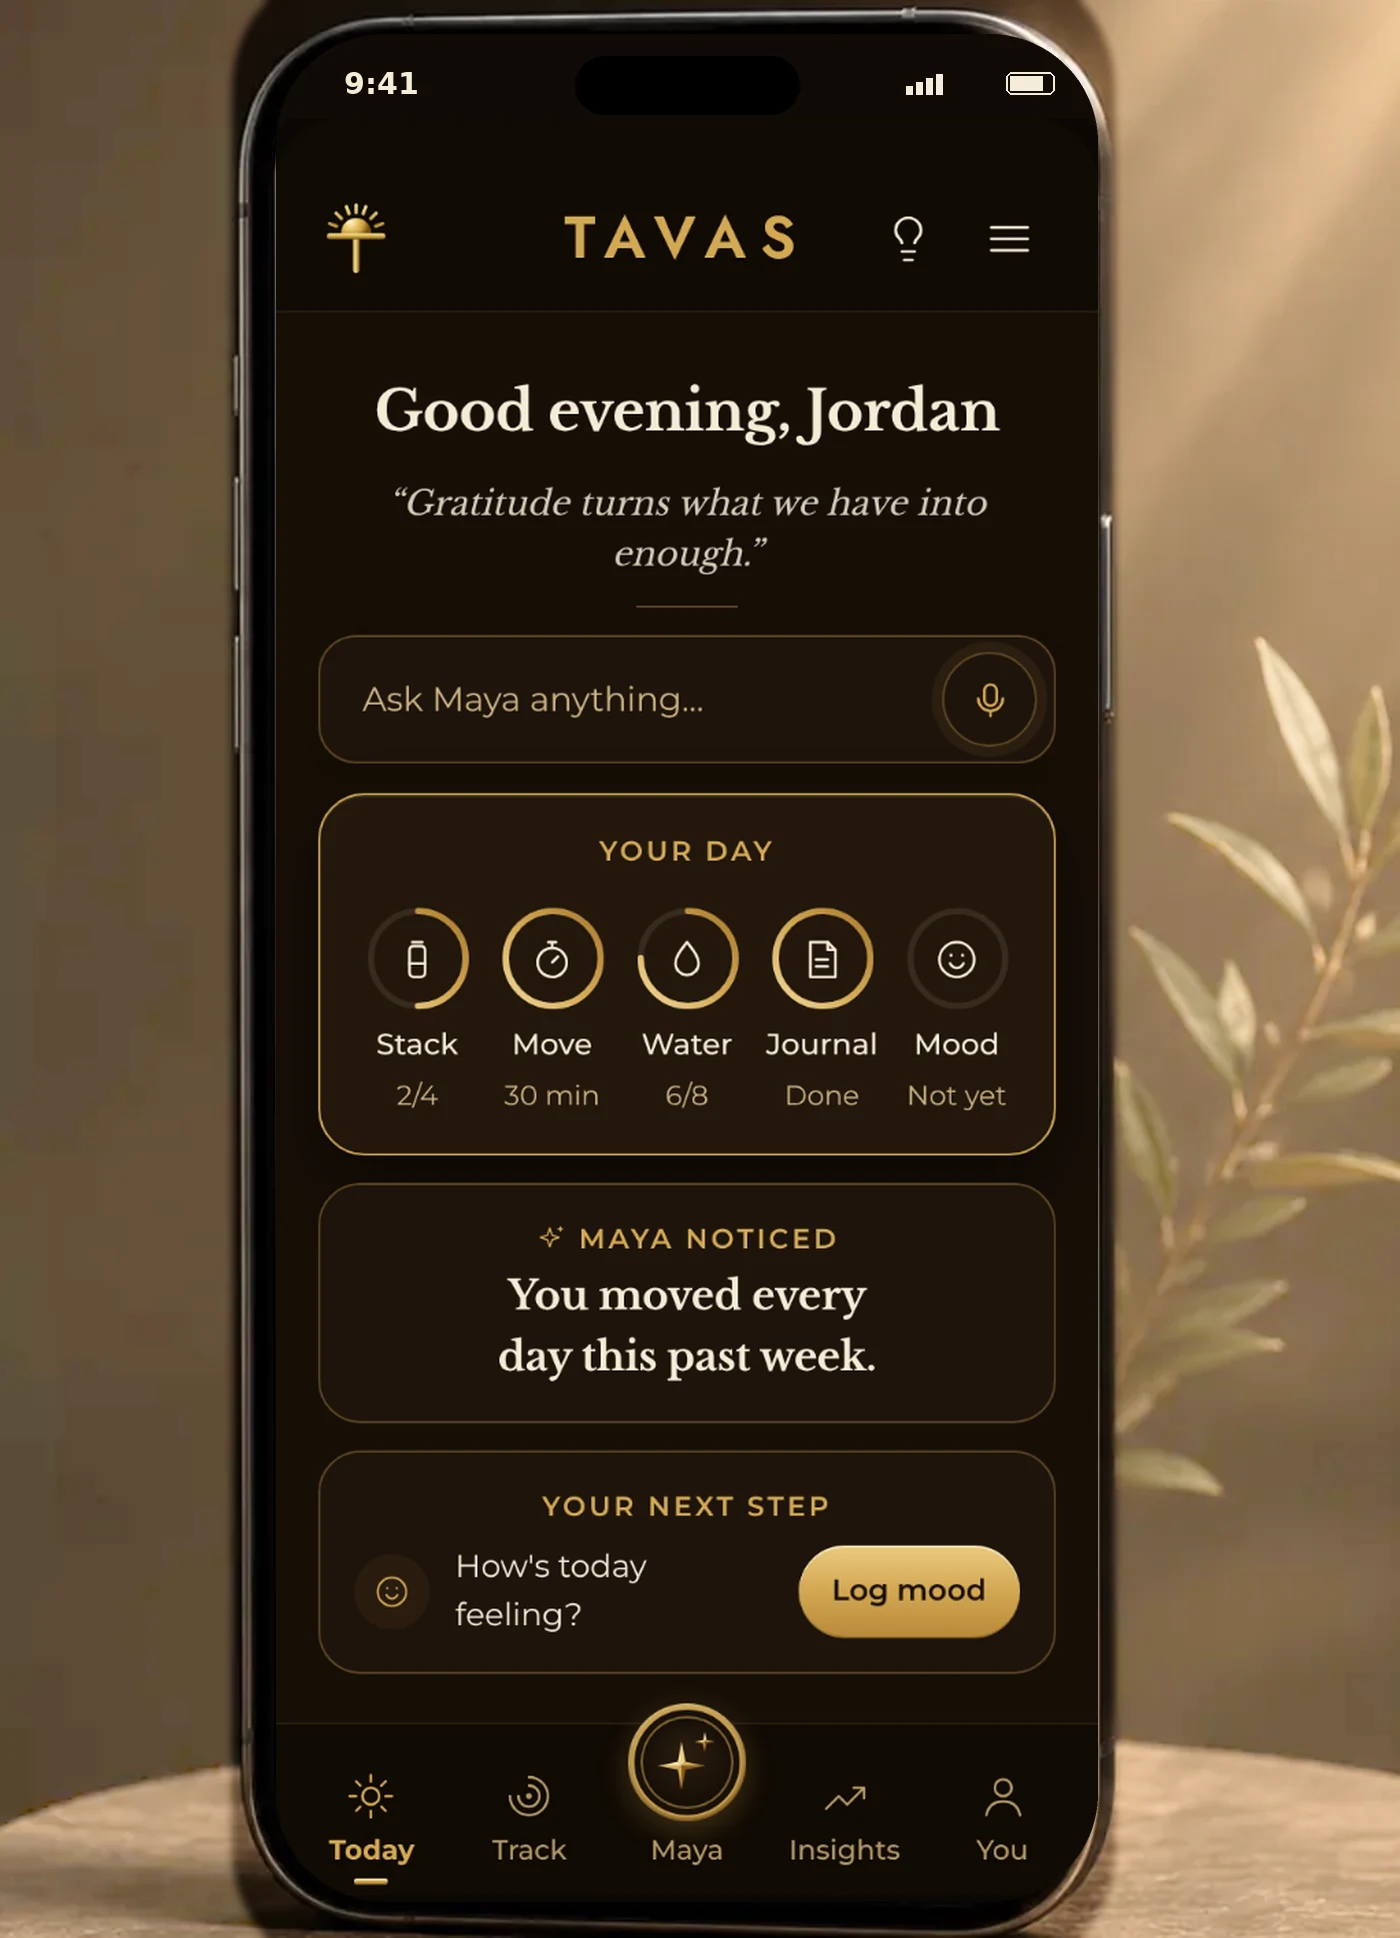
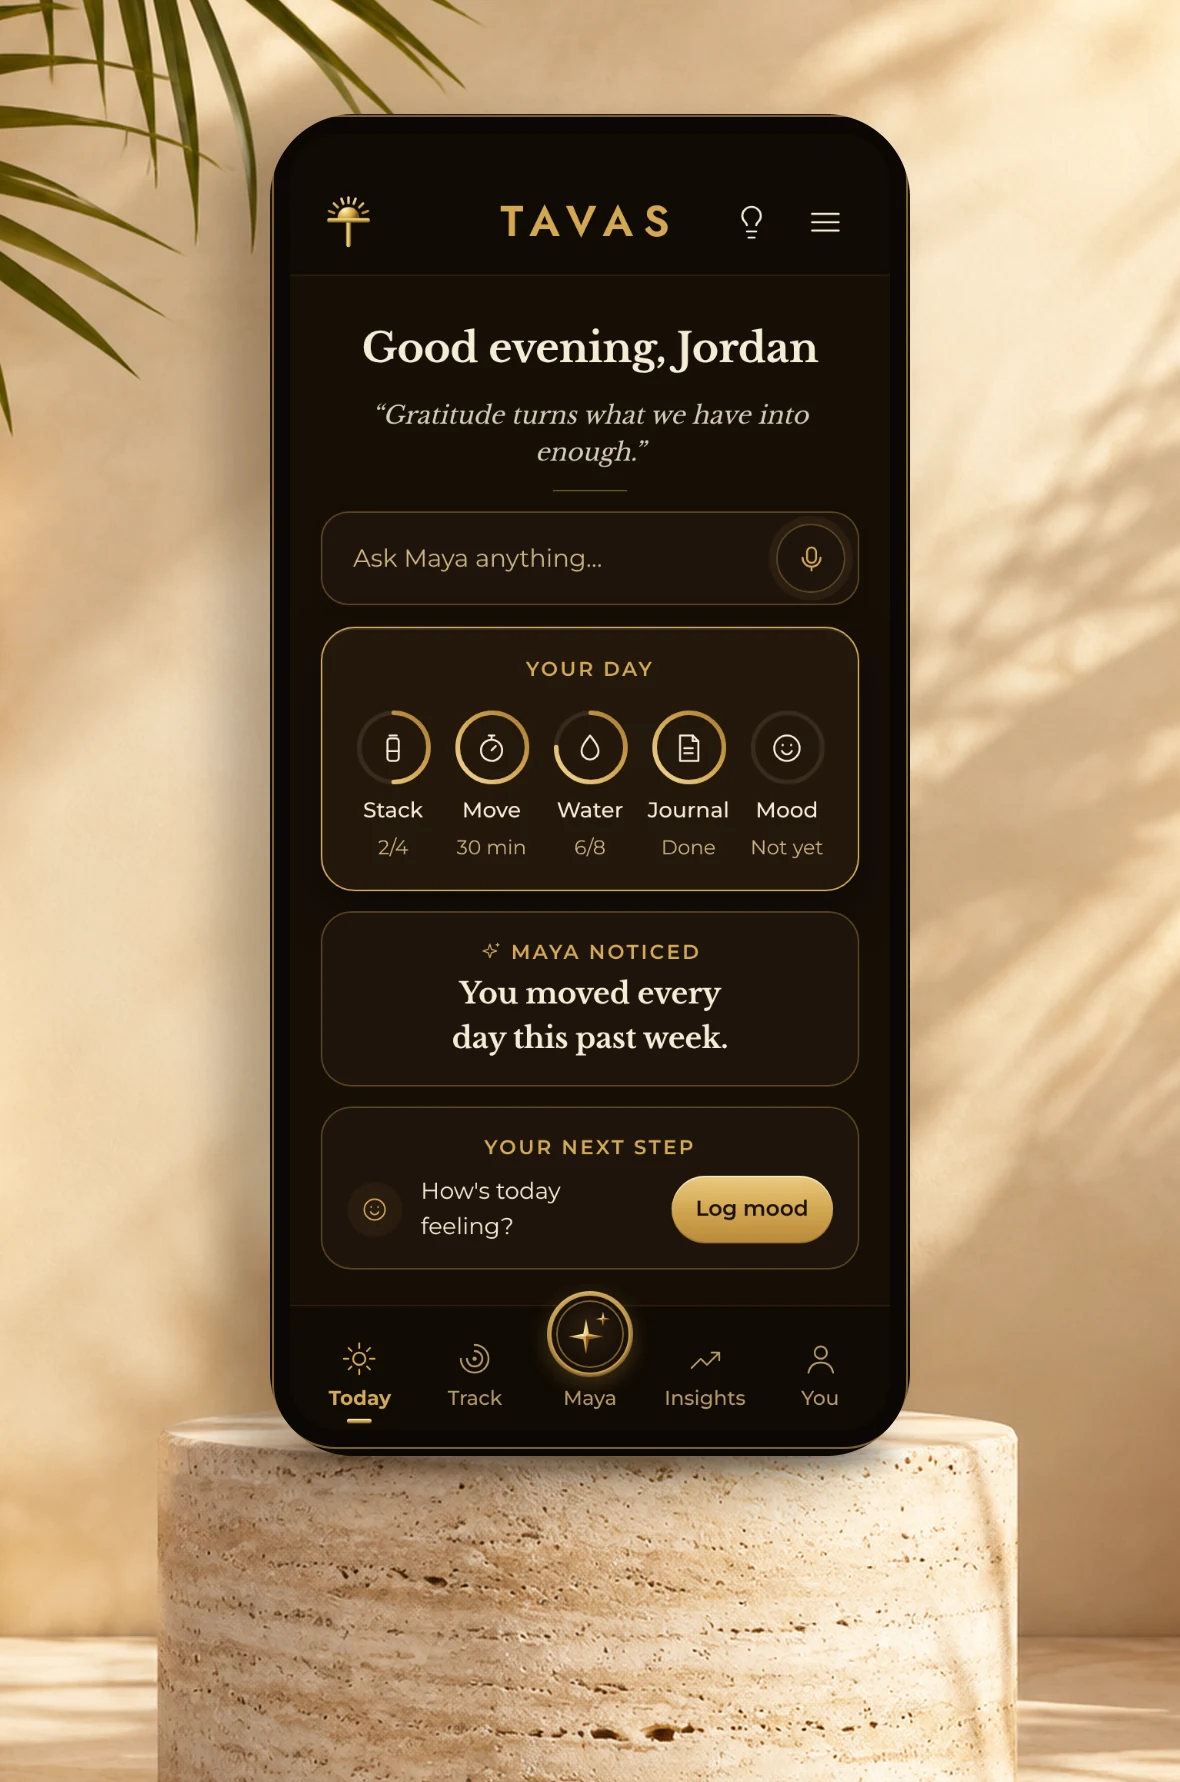
App scene: light travertine and palm-shadow scene, bigger phone
Claude-Session: https://claude.ai/code/session_01W3RkAmy1einu2JKbbagWGV

diff --git a/index.html b/index.html
@@ -319,7 +319,7 @@ img, svg, video { max-width: 100%; }
           <a href="https://play.google.com/store/apps/details?id=com.shineon.journal" target="_blank" rel="noopener" class="btn-primary-choc">Get it on Google Play</a>
         </div>
         <div class="split-media">
-          <img src="assets/img/web/tavas-app-scene.webp" alt="The Tavas app on a phone: your whole day at a glance" class="app-mock scene" width="1400" height="1938" loading="lazy" decoding="async">
+          <img src="assets/img/web/tavas-app-scene.webp" alt="The Tavas app on a phone: your whole day at a glance" class="app-mock scene" width="1180" height="1782" loading="lazy" decoding="async">
         </div>
       </div>
     </section>
